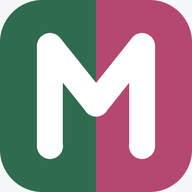
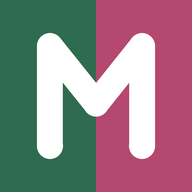
아이콘을 풀블리드 정사각형으로 — 흰 여백 원인인 둥근 모서리 베이킹 제거
이전 버전은 아이콘 자체에 둥근 모서리 + 배경색을 미리 구워 넣어서,
iOS/Android가 자체적으로 또 모서리를 둥글릴 때 그 배경색이 여백처럼
보였다. 이제 네 귀퉁이까지 색을 꽉 채우고, 둥글리는 건 OS에 맡긴다.
캐시버스터도 v=3으로 갱신.

diff --git a/about.html b/about.html
@@ -7,7 +7,7 @@
   <title>소개 · 마이웨이트, 마이러브</title>
   <meta name="description" content="자기이해·자기수용·자기돌봄을 실천하는 사람들의 커뮤니티. 몸무게 기록은 그 과정을 비추는 도구입니다." />
   <link rel="icon" type="image/svg+xml" href="./favicon.svg" />
-  <link rel="apple-touch-icon" href="./apple-touch-icon.png?v=2" />
+  <link rel="apple-touch-icon" href="./apple-touch-icon.png?v=3" />
   <link rel="manifest" href="./manifest.json" />
   <meta name="theme-color" content="#2f6b4f" />
   <link rel="stylesheet" href="./style.css" />

diff --git a/index.html b/index.html
@@ -7,7 +7,7 @@
   <title>마이웨이트, 마이러브</title>
   <meta name="description" content="자기이해, 자기수용, 자기돌봄 — 습관과 루틴으로 몸에 배게 만들어가는 사람들의 커뮤니티." />
   <link rel="icon" type="image/svg+xml" href="./favicon.svg" />
-  <link rel="apple-touch-icon" href="./apple-touch-icon.png?v=2" />
+  <link rel="apple-touch-icon" href="./apple-touch-icon.png?v=3" />
   <link rel="manifest" href="./manifest.json" />
   <meta name="theme-color" content="#2f6b4f" />
   <link rel="preconnect" href="https://fonts.googleapis.com" />

diff --git a/challenge.html b/challenge.html
@@ -7,7 +7,7 @@
   <title>챌린지 · 마이웨이트, 마이러브</title>
   <meta name="description" id="meta-desc" content="함께 지키는 데일리 체크인 챌린지" />
   <link rel="icon" type="image/svg+xml" href="./favicon.svg" />
-  <link rel="apple-touch-icon" href="./apple-touch-icon.png?v=2" />
+  <link rel="apple-touch-icon" href="./apple-touch-icon.png?v=3" />
   <link rel="manifest" href="./manifest.json" />
   <meta name="theme-color" content="#2f6b4f" />
   <link rel="stylesheet" href="./style.css" />

diff --git a/app.html b/app.html
@@ -6,7 +6,7 @@
   <meta name="color-scheme" content="light dark" />
   <title>마이웨이트, 마이러브</title>
   <link rel="icon" type="image/svg+xml" href="./favicon.svg" />
-  <link rel="apple-touch-icon" href="./apple-touch-icon.png?v=2" />
+  <link rel="apple-touch-icon" href="./apple-touch-icon.png?v=3" />
   <link rel="manifest" href="./manifest.json" />
   <meta name="theme-color" content="#2f6b4f" />
   <link rel="stylesheet" href="./style.css" />

diff --git a/scripts/make_icons.py b/scripts/make_icons.py
@@ -1,4 +1,7 @@
-"""홈 화면 아이콘 생성 — 둥근 사각형, 좌우 절반 두 색 + 가운데 흰색 M.
+"""홈 화면 아이콘 생성 — 좌우 절반 두 색, 가운데 흰색 M. 정사각형 풀블리드(모서리 안 둥글림).
+
+OS(iOS/Android)가 자체적으로 모서리를 둥글리므로 여기서 미리 둥글리면
+배경색이 여백처럼 비쳐 보인다 — 그래서 네 귀퉁이까지 색을 꽉 채운다.
 
 실행: api/venv 의 python으로 (Pillow 있음) — 이 파일 기준 상위 폴더에 PNG 3장 저장.
     ../api/venv/Scripts/python.exe scripts/make_icons.py
@@ -8,40 +11,29 @@ from PIL import Image, ImageDraw
 
 OUT = Path(__file__).resolve().parent.parent
 
-GREEN = (47, 107, 79, 255)     # --accent / weight
-ROSE = (181, 72, 111, 255)     # --love
+GREEN = (47, 107, 79, 255)   # --accent / weight
+ROSE = (181, 72, 111, 255)   # --love
 WHITE = (255, 255, 255, 255)
-CANVAS_BG = (246, 247, 249, 255)  # --bg — 둥근 모서리 바깥을 채움(검은 모서리 방지)
 
 S = 1024  # 마스터 해상도
-RADIUS = int(S * 0.22)  # 아이콘다운 둥근 정도
 
 
 def make_master() -> Image.Image:
-    # 1) 좌(green)/우(rose) 절반 배경
-    halves = Image.new("RGBA", (S, S), (0, 0, 0, 0))
-    d = ImageDraw.Draw(halves)
+    img = Image.new("RGBA", (S, S), (0, 0, 0, 0))
+    d = ImageDraw.Draw(img)
+    # 좌(green)/우(rose) 절반, 모서리까지 꽉 채움
     d.rectangle([0, 0, S // 2, S], fill=GREEN)
     d.rectangle([S // 2, 0, S, S], fill=ROSE)
 
-    # 2) 둥근 사각형 마스크
-    mask = Image.new("L", (S, S), 0)
-    ImageDraw.Draw(mask).rounded_rectangle([0, 0, S - 1, S - 1], radius=RADIUS, fill=255)
-
-    # 3) 배경색 캔버스 위에 마스크로 좌우 절반을 오려 붙임 → 모서리 바깥은 배경색
-    img = Image.new("RGBA", (S, S), CANVAS_BG)
-    img.paste(halves, (0, 0), mask)
-
-    # 4) 굵은 M (둥근 이음새) — 0..100 좌표계를 S로 스케일, 폰트 없이 폴리라인으로 직접 그림
-    d2 = ImageDraw.Draw(img)
+    # 굵은 M (둥근 이음새) — 0..100 좌표계를 S로 스케일, 폰트 없이 폴리라인으로 직접 그림
     def p(x, y):
         return (x / 100 * S, y / 100 * S)
     pts = [p(26, 76), p(26, 24), p(50, 54), p(74, 24), p(74, 76)]
     width = int(0.135 * S)
-    d2.line(pts, fill=WHITE, width=width, joint="curve")
+    d.line(pts, fill=WHITE, width=width, joint="curve")
     r = width / 2
     for x, y in pts:
-        d2.ellipse([x - r, y - r, x + r, y + r], fill=WHITE)
+        d.ellipse([x - r, y - r, x + r, y + r], fill=WHITE)
     return img
 
 
